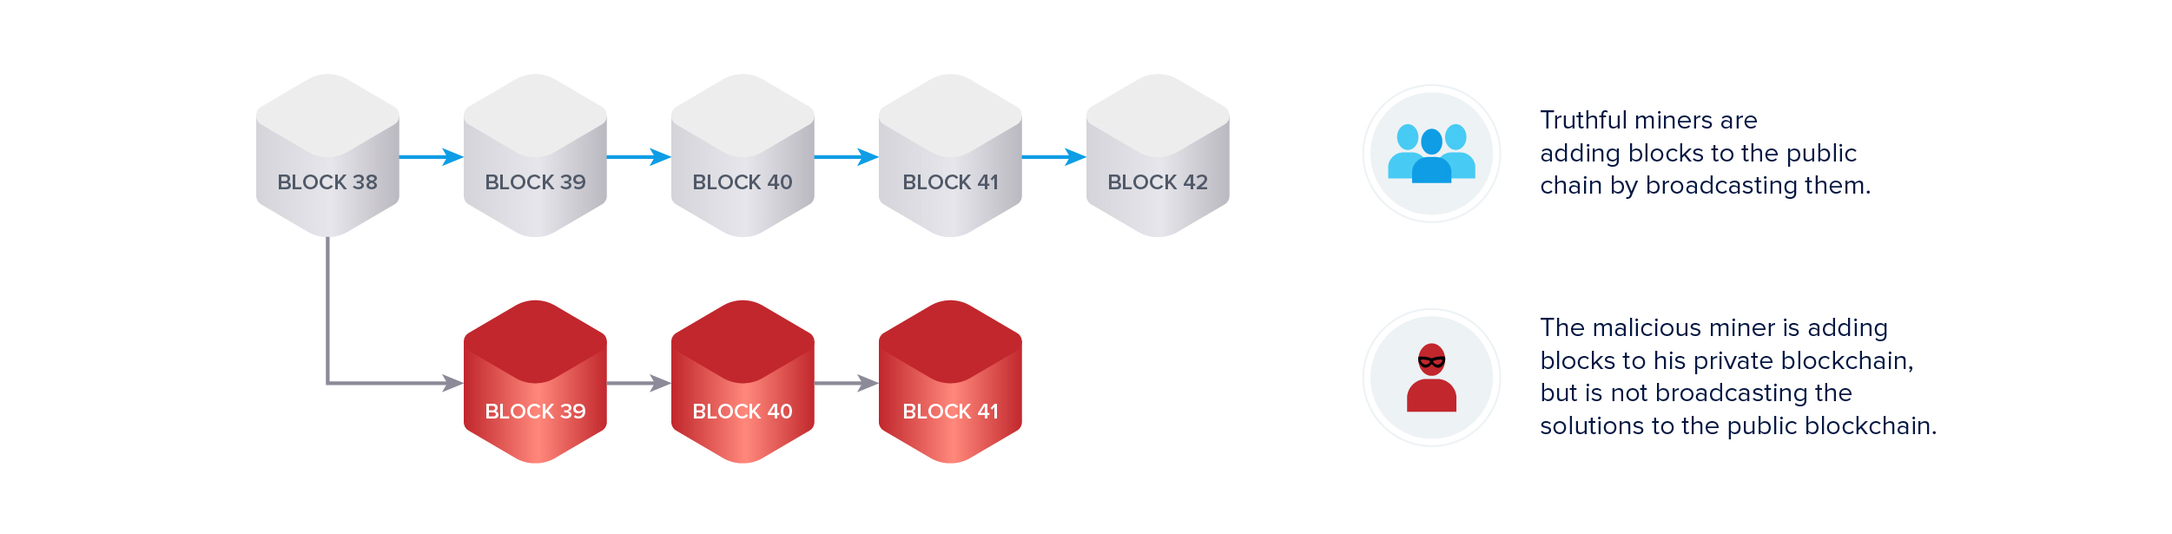
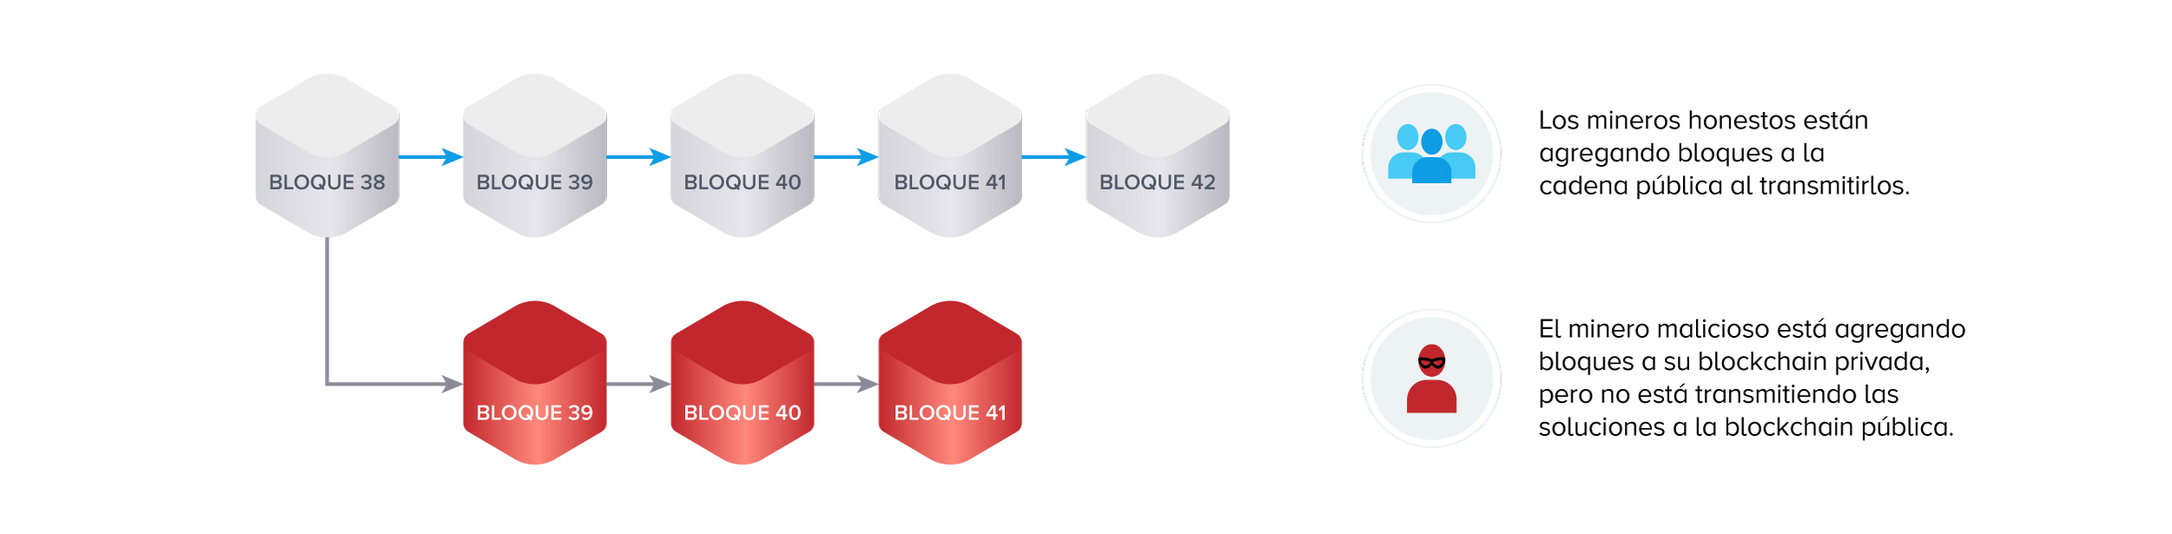
Update translation

diff --git a/_layouts/post.html b/_layouts/post.html
@@ -2,7 +2,7 @@
 layout: default
 ---
 
-<div class="post-section js-PostContent" data-topic="{{page.topic}}" data-level="{{ page.level | default: '' }}" data-url="{{page.url}}">
+<div class="post-section js-PostContent" data-topic="{{page.topic}}" data-level="{{ page.level | default: '' }}" data-url="{% if site.default_lang != site.lang %}/{{ site.lang }}{% endif %}{{page.url}}">
 
     {% include search.html %}
 

diff --git a/_i18n/es/_posts/technology/advanced/2021-07-01-summary-tech-advanced.md b/_i18n/es/_posts/technology/advanced/2021-07-01-summary-tech-advanced.md
@@ -18,12 +18,12 @@ En nuestro primer capítulo abordamos la cadena de bloques desde tres perspectiv
 ![Blockchain broken](/assets/post_files/technology/advanced/blockchain-as-a-data-structure/ES_blockchain_broken_D.jpg)
 ![Blockchain broken](/assets/post_files/technology/advanced/blockchain-as-a-data-structure/ES_blockchain_broken_M.jpg)
 
-Segundo, nos acercamos a la cadena como un [protocolo para transferir valor]({{ site.baseurl }}{% post_url /es/technology/advanced/2021-01-03-a-protocol-to-transfer-value %}). Hay muchos protocolos de red diferentes que permiten a los dispositivos comunicarse de manera estandarizada. Sin estos estándares, les sería difícil a los desarrolladores e ingenieros desarrollar software y hardware interoperable. La cadena de bloques es un nuevo tipo de protocolo que estandariza la manera en la que sus usuarios pueden intercambiar valor por internet sin tener que involucrar a ningún intermediario como un banco o proveedor de servicios de pago com PayPal.
+Segundo, nos acercamos a la cadena como un [protocolo para transferir valor]({{ site.baseurl }}{% post_url /es/technology/advanced/2021-01-03-a-protocol-to-transfer-value %}). Hay muchos protocolos de red diferentes que permiten a los dispositivos comunicarse de manera estandarizada. Sin estos estándares, les sería difícil a los desarrolladores e ingenieros desarrollar software y hardware interoperable. La cadena de bloques es un nuevo tipo de protocolo que estandariza la manera en la que sus usuarios pueden intercambiar valor por internet sin tener que involucrar a ningún intermediario como un banco o proveedor de servicios de pago como PayPal.
 
 ![Protocols](/assets/post_files/technology/advanced/a-protocol-to-transfer-value/ES_protocols_D.jpg)
 ![Protocols](/assets/post_files/technology/advanced/a-protocol-to-transfer-value/ES_protocols_M.jpg)
 
-Por último, introdujimos el concepto de los [contratos inteligentes]({{ site.baseurl }}{% post_url /es/technology/advanced/2021-01-04-guaranteed-execution-with-smart-contracts %}). Smart Contracts are programs stored and running on the blockchain. They ensure objective execution on the basis of mutually agreed upon terms enforced by code. They have the potential to reduce middleman which in turn reduces costs and saves time. Before we can see widespread adoption we have to overcome some hurdles, like solving the Oracle Problem that describes the challenge of reliably submitting real-world data to the blockchain.
+Por último, introdujimos el concepto de los [contratos inteligentes]({{ site.baseurl }}{% post_url /es/technology/advanced/2021-01-04-guaranteed-execution-with-smart-contracts %}). Los contratos inteligentes son programas que se almacenan y ejecutan en la cadena de bloques. Estos programas aseguran la ejecución objetiva del contrato con base en términos acordados mutuamente y hechos valer por el código. Este tipo de contrato tiene el potencial de reducir el número de intermediarios, reduciendo costos y ahorrando tiempo. Sin embargo, antes de que pueda darse la adopción generalizada de estos contratos, deben superarse obstáculos como el problema del oráculo, el cual describe la dificultad de ingresar a la cadena de bloques un dato relacionado al mundo real de manera confiable.
 
 ![Oracle](/assets/post_files/technology/advanced/guaranteed-execution-with-smart-contracts/ES_oracle_D.jpg)
 ![Oracle](/assets/post_files/technology/advanced/guaranteed-execution-with-smart-contracts/ES_oracle_M.jpg)
@@ -47,7 +47,7 @@ El [mecanismo de consenso]({{ site.baseurl }}{% post_url /es/technology/advanced
 
 En el último artículo sobre el funcionamiento de las cadenas de bloque, discutimos el concepto de [minado]({{ site.baseurl }}{% post_url /es/technology/advanced/2021-02-07-mining %}) dentro de una cadena PoW. Los mineros protegen a la cadena de bloques contra cualquier ataque y al historial registrado de todo cambio. Agregar un bloque a la cadena de bloques requiere un gran número de intentos aleatorios para encontrar un nonce que produzca un hash de bloque válido. El hash del bloque debe satisfacer el nivel de dificultad actual de la red. Gracias a esto, resulta extremadamente complicado alterar los datos de la cadena de bloques. Si alguien deseara lograrlo, tendría que hacerlo por sí mismo, no solo repitiendo todo el trabajo ya hecho, pero también a un paso más rápido que todos los mineros honestos combinados.
 
-Los mineros se encuentran en una de competencia, y sus probabilidades de encontrar el próximo bloque depende del poder computacional que controlan. Un minero recibe monedas recién creadas como recompensa por su trabajo. El que una red distribuida puede pagar a sus participantes por su propio mantenimiento es una gran innovación introducida por Bitcoin.
+Los mineros se encuentran en una competencia, y sus probabilidades de encontrar el próximo bloque depende del poder computacional que controlan. Un minero recibe monedas recién creadas como recompensa por su trabajo. El que una red distribuida puede pagar a sus participantes por su propio mantenimiento es una gran innovación introducida por Bitcoin.
 
 ![Miner](/assets/post_files/technology/advanced/mining/ES_miner_D.jpg)
 ![Miner](/assets/post_files/technology/advanced/mining/ES_miner_M.jpg)
@@ -63,8 +63,8 @@ Le dedicamos el tercer capítulo a las [billeteras de criptomonedas y a los dife
 
 En el cuarto capítulo hablamos de transacciones. Dentro del primer artículo se introdujo el tema del [modelo UTXO]({{ site.baseurl }}{% post_url /es/technology/advanced/2021-04-02-the-utxo-model %}), el método de contabilidad empleado por la mayoría de las cadenas de bloques. La cadena de bloques no mantiene registros del saldo de cada dirección. Más bien, la billetera repasa el historial de transacciones de la cadena de bloques y recopila todas las transacciones entrantes que no se han gastado aún, los UTXO del usuario, y las suma para generar el saldo disponible, algo un tanto similar a la manera en la que funciona el efectivo. Si el usuario posee, por ejemplo, un UTXO de 10 ZEN pero solo quiere gastar 8 de ellos, la billetera usará el UTXO en una transacción con dos salidas: se enviarán 8 ZEN al destino indicado y 2 ZEN, el cambio del usuario, en una segunda salida.
 
-![wallet](/assets/post_files/technology/advanced/the-utxo-model/ES_wallet_balance_Int_D.jpg)
-![wallet](/assets/post_files/technology/advanced/the-utxo-model/ES_wallet_balance_Int_M.jpg)
+![wallet](/assets/post_files/technology/advanced/the-utxo-model/wallet_balance_Int_D.jpg)
+![wallet](/assets/post_files/technology/advanced/the-utxo-model/wallet_balance_Int_M.jpg)
 
 En el siguiente artículo sobre transacciones, hablamos sobre el [explorador de bloques]({{ site.baseurl }}{% post_url /es/technology/advanced/2021-04-03-block-explorer-continued %}), una herramienta gráfica que permite al usuario visualizar y explorar los datos de la cadena de bloques. Hay un explorador disponible para casi todas las cadenas de bloques públicas existentes. Esta herramienta permite también explorar el historial de una cadena con todas las transacciones que contiene, así como todas las direcciones empleadas y el total de bloques minados. Aclaramos también los datos que el explorador hace disponibles y nos remontamos a la primera transacción criptomonetaria, la cual ocurrió entre Satoshi Nakamoto y Hal Finney.
 
@@ -77,9 +77,9 @@ Nos adentramos además a un tipo muy especial de transacción, el [intercambio a
 
 ### Privacidad en la cadena de bloques
 
-El derecho humano a la privacidad es uno de los valores centrales de Horizen. En este capítulo, analizamos diferentes métodos de conservar la [privacidad en la cadena de bloques]({{ site.baseurl }}{% post_url /es/technology/advanced/2021-05-01-intro-to-privacy-on-the-blockchain %}). Empezamos por métodos sencillos como la utilización de una dirección diferente por transacción y protocolos de mezclado de monedas que combinan un grupo transacciones de fuentes diferentes para ofuscar la relación entre remitente y receptor. Una técnica más avanzada para garantizar la privacidad de una transacción es la utilización de una firma anular. Con las firmas anulares, un grupo de gente firma la transacción, el observador podrá estar seguro de que la transacción fue firmada por alguien del grupo, pero no sabrá quién.
+El derecho humano a la privacidad es uno de los valores centrales de Horizen. En este capítulo, analizamos diferentes métodos de conservar la [privacidad en la cadena de bloques]({{ site.baseurl }}{% post_url /es/technology/advanced/2021-05-01-intro-to-privacy-on-the-blockchain %}). Empezamos por métodos sencillos como la utilización de una dirección diferente por transacción y protocolos de mezclado de monedas que combinan un grupo de transacciones de fuentes diferentes para ofuscar la relación entre remitente y receptor. Una técnica más avanzada para garantizar la privacidad de una transacción es la utilización de una firma anular. Con las firmas anulares, un grupo de gente firma la transacción, el observador podrá estar seguro de que la transacción fue firmada por alguien del grupo, pero no sabrá quién.
 
-La última tecnología para conservar privacidad que discutimos fueron las pruebas de cero conocimiento, en especial los zkSNARK, la tecnología que Horizen utiliza para sus transacciones protegidas. Una prueba de cero conocimiento le permite al usuario comprobarle al verificador que tiene conocimiento de algo sin revelar dicho conocimiento. Empleamos como ejemplo a una persona vidente que intenta convencer a una con los ojos vendados que había bolas de dos colores diferentes, pero sin revelar los colores.
+La última tecnología para conservar privacidad que discutimos fueron las pruebas de cero conocimiento, en especial los zkSNARK, la tecnología que Horizen utiliza para sus transacciones privadas. Una prueba de cero conocimiento le permite al usuario comprobarle al verificador que tiene conocimiento de algo sin revelar dicho conocimiento. Empleamos como ejemplo a una persona vidente que intenta convencer a una con los ojos vendados que había bolas de dos colores diferentes, pero sin revelar los colores.
 
 ![Zero-Knowledge Proofs](/assets/post_files/technology/advanced/privacy-on-the-blockchain/ES_zkproof_D.jpg)
 ![Zero-Knowledge Proofs](/assets/post_files/technology/advanced/privacy-on-the-blockchain/ES_zkproof_M.jpg)

diff --git a/_i18n/es/_posts/technology/advanced/2021-02-06-consensus-mechanisms.md b/_i18n/es/_posts/technology/advanced/2021-02-06-consensus-mechanisms.md
@@ -16,7 +16,11 @@ Cuando el participante de una red crea una transacción, la transacción se prop
 
 Hay muchas maneras de lograr consenso en una red distribuida, pero las dos más utilizadas son los algoritmos de prueba de trabajo y prueba de participación. Tomemos esta generalización formulada por Demiro Massessi:
 
-_"The main difference between consensus mechanisms is the way in which they delegate and reward the verification of transactions. (...) In one way or another, blockchain consensus algorithms boil down to some kind of vote where the number of votes that a user has is tied to the amount of a limited resource that is under the user’s control."_
+**Inglés**
+
+_"The main difference between consensus mechanisms is the way in which they delegate and reward the verification of Transacciones. (...) In one way or another, blockchain consensus algorithms boil down to some kind of vote where the number of votes that a user has is tied to the amount of a limited resource that is under the user’s control."_
+
+**Español**
 
 _"La principal diferencia entre mecanismos de consenso es la manera en la que delegan y recompensan la verificación de transacciones. […] De una manera u otra, los algoritmos de consenso de la cadena de bloques se reducen a algún tipo de votación donde el número de votos que tiene cada usuario está atado a la cantidad de algún recurso limitado controlado por el usuario."_
 
@@ -41,11 +45,15 @@ Todos los nodos y mineros verifican la validez de un bloque nuevo en cuanto se d
 
 **La regla de la cadena más larga**
 
-Now you can imagine a scenario in which two miners find a block at the same time. In this case, all the nodes and miners on the network save both versions of the block. This is a tie situation: both blocks are valid at this point, but somehow they must break the tie. We need a single version of the truth. The miners will start building on top of the block they received first. The tie is broken when the miners find the next block. The block of the two competing versions that is built on top of will become accepted as the single truth by all miners and nodes. The block that is disregarded is called an _orphan block_. This procedure of breaking a tie between to concurring blocks is called the Longest Chain Rule or Nakamoto Consensus.
+Imaginemos una situación en la que dos mineros encuentran un bloque al mismo tiempo. En este caso, todos los nodos y mineros de la red almacenan ambas versiones del bloque. A esta situación se le llama empate, pues ambos bloques son válidos al momento de ser creados. Sin embargo, el empate debe romperse de alguna manera, pues es necesaria una sola versión de la verdad. Los mineros empiezan a construir sobre el bloque que reciben primero. El empate se rompe cuando un minero encuentra el siguiente bloque. Uno de los dos bloques será aceptado como el único verdadero por todos los mineros y nodos, mientras que el otro se hará de lado; estos bloques sin cadena se denominan bloques huérfanos. A este tipo de procedimiento para romper empates entre bloques coincidentes se le llama regla de la cadena más larga (longest chain rule) o consenso de Nakamoto.
 
-If 80% of miners receive block A first and the other 20% block B, then the chances of block A getting extended are 80% (assuming all miners have the same computational power). In a way, the miners vote with their computational power on one version of the history. This aligns perfectly with our quote from the beginning of the article:
+Si el 80% de los mineros recibieron primero el bloque A y el otro 20% el bloque B, las probabilidades de que la cadena se extienda partiendo del bloque A son del 80% (suponiendo que todos los mineros poseen el mismo poder computacional). De cierta manera, los mineros votan con su poder computacional por una sola versión del historial, replicando así la realidad descrita en nuestra cita inicial:
+
+**Inglés**
 
  _"In one way or another, blockchain consensus algorithms boil down to some kind of vote where the number of votes that a user has is tied to the amount of a limited resource that is under the user’s control."_
+
+**Español**
 
  _“De una manera u otra, los algoritmos de consenso de la cadena de bloques se reducen a algún tipo de votación donde el número de votos que tiene cada usuario está atado a la cantidad de algún recurso limitado controlado por el usuario.”_
 
@@ -75,7 +83,7 @@ Los escépticos cuestionan la seguridad del modelo de consenso PoS porque no se 
 
 Otra diferencia entre las cadenas PoW y PoS es que en la segunda cada nodo validador debe ser identificable, pues sus monedas en participación deben utilizarse para compensar por actos maliciosos. En una cadena PoW no es necesario tener mineros o nodos identificables. Al contrario, una de sus características es que cuando un nodo recibe un bloque, no se incluye información sobre quién lo minó. Puede haber sido el mismo nodo el que haya transmitido el bloque, o puede que este se haya relevado varias veces antes de alcanzar al usuario; no importa ni debe importar la identidad del minero. Lo único importante es que la solución al acertijo y todas las transacciones en el bloque sean válidas. En el caso de las pruebas de trabajo, solo es necesario confiar en las matemáticas.
 
-Quienes apoyan las cadenas PoS se remiten al alto costo y rendimiento limitado de las cadenas PoW, y consideran por lo tanto el mecanismo PoS como el má sustentable. Por el momento, no hay disponible ninguna cadena de bloques PoS que pueda cumplir con sus promesas de seguridad durante un tiempo extendido. En cambio, existe el precedente de Bitcoin, cuya cadena PoW se ha ejecutado durante más de diez años sin ninguna violación de seguridad significativa. Será el tiempo el que decida si las cadenas PoS pueden cumplir con la promesa de ser igual de seguras pero más escalables que una cadena PoW.
+Quienes apoyan las cadenas PoS se remiten al alto costo y rendimiento limitado de las cadenas PoW, y consideran por lo tanto el mecanismo PoS como el más sustentable. Por el momento, no hay disponible ninguna cadena de bloques PoS que pueda cumplir con sus promesas de seguridad durante un tiempo extendido. En cambio, existe el precedente de Bitcoin, cuya cadena PoW se ha ejecutado durante más de diez años sin ninguna violación de seguridad significativa. Será el tiempo el que decida si las cadenas PoS pueden cumplir con la promesa de ser igual de seguras pero más escalables que una cadena PoW.
 
 Retomaremos esta discusión en la conclusión de nuestro artículo sobre el minado de criptomonedas. Los argumentos respectivos de las comunidades PoS y PoW tendrán mayor sentido una vez que quede claro de qué trata el proceso de minado.
 

diff --git a/_i18n/es/_posts/technology/advanced/2021-01-04-guaranteed-execution-with-smart-contracts.md b/_i18n/es/_posts/technology/advanced/2021-01-04-guaranteed-execution-with-smart-contracts.md
@@ -31,7 +31,7 @@ Otro posible uso de los contratos inteligentes sería el de una especie de eBay 
 
 ### dApps
 
-Una aplicación descentralizada (dApp) es un argumento más sofisticado a favor de los contratos inteligentes. La mayoría las apps y sitios webs utilizan API (application programming interfaces) para comunicarse con su base de datos subyacente. Un API bien escrito le hace más a un desarrollador ofrecer un servicio al definir la comunicación entre los componentes de un sistema, como el sistema operativo, base de datos o biblioteca de software.
+Una aplicación descentralizada (dApp) es un argumento más sofisticado a favor de los contratos inteligentes. La mayoría las apps y sitios webs utilizan API (application programming interfaces) para comunicarse con su base de datos subyacente. Un API bien escrito le hace más fácil a un desarrollador ofrecer un servicio al definir la comunicación entre los componentes de un sistema, como el sistema operativo, base de datos o biblioteca de software.
 
 Las dApps hacen uso de contratos inteligentes para comunicarse con su cadena de bloques. En un futuro, podrían surgir receptáculos de plantillas de contratos inteligentes para diversos fines. Este futuro ya está empezando a materializarse gracias a plataformas de contratos inteligentes como Ethereum.
 
@@ -46,7 +46,7 @@ Se encuentran también los pocos que saben que Bitcoin permite también la creac
 
 En el caso de los contratos inteligentes, la seguridad implica considerar todas las maneras en las que el contrato podría ejecutarse, así como asegurarse de cubrir todas las posibles consecuencias. Los contratos seguros de Bitcoin escritos en Script permiten menor complejidad a comparación de los escritos en Solidity para Ethereum; esto limita los casos en los que pueden utilizarse, pero hace más fácil enumerar, examinar y rendir cuentas, resultando en contratos más fáciles de asegurar.
 
-Vale la pena mencionar que las plantillas de contratos inteligentes más usados en Ethereum, en especial en el estándar ERC20 y ERC721 no requieren ser sistemas Turing completos. Casi todos los tokens creados en la cadena de bloques de Ethereum emplean uno de estos dos estándares, pues son más fáciles de integrar con distintas billeteras y centros cambiarios.
+Vale la pena mencionar que las plantillas de contratos inteligentes más usados en Ethereum, en especial los estándares ERC20 y ERC721 no requieren ser sistemas Turing completos. Casi todos los tokens creados en la cadena de bloques de Ethereum emplean uno de estos dos estándares, pues son más fáciles de integrar con distintas billeteras y centros cambiarios.
 
 ### ¿En serio es un sistema libre de intermediarios?
 
@@ -79,8 +79,8 @@ En palabras de Jimmy Song, “Un contrato inteligente que confía en un tercero 
 
 ### Resumen
 
-Habiendo completado esta lección, ya debe tener una buena idea de la naturaleza de una cadena de bloques, pues la hemos como estructura de datos y como un conjunto de reglas. La cadena puede almacenar información confiablemente dada la naturaleza distribuida del libro contable. Todos pueden participar en la red sin permiso o registro alguno mientras se apeguen a las reglas del protocolo. Así, se logra que las cadenas de bloques sean resistentes a la censura, sin permisos, libres de intermediarios y, sobre todo, muy valiosas. Una blockchain puede no solo almacenar pedazos de información sino también programas ejecutados de manera distribuida.
+Habiendo completado esta lección, ya debe tener una buena idea de la naturaleza de una cadena de bloques, pues la hemos analizado como estructura de datos y como un conjunto de reglas. La cadena puede almacenar información confiablemente dada la naturaleza distribuida del libro contable. Todos pueden participar en la red sin permiso o registro alguno mientras se apeguen a las reglas del protocolo. Así, se logra que las cadenas de bloques sean resistentes a la censura, sin permisos, libres de intermediarios y, sobre todo, muy valiosas. Una blockchain puede no solo almacenar pedazos de información sino también programas ejecutados de manera distribuida.
 
-Los contactos inteligentes pueden asegurar ejecución objetiva de un contrato a partir de términos previamente acordados y hechos valer por el código mismo. Poseen el potencial de eliminar intermediarios y así disminuir costos y pérdidas de tiempo. Asimismo, es probable que incentiven una relación más estrecha entre desarrolladores de software y el sistema judicial. Habrá que superar varios obstáculos para que la tecnología se adopte de manera general, si embargo. Los reguladores tendrán que crear un marco que permita la implementación de contratos inteligentes con validez y tendrán que desarrollarse oráculos descentralizados.
+Los contactos inteligentes pueden asegurar la ejecución objetiva de un contrato a partir de términos previamente acordados y hechos valer por el código mismo. Poseen el potencial de eliminar intermediarios y así disminuir costos y pérdidas de tiempo. Asimismo, es probable que incentiven una relación más estrecha entre desarrolladores de software y el sistema judicial. Habrá que superar varios obstáculos para que la tecnología se adopte de manera general, si embargo. Los reguladores tendrán que crear un marco que permita la implementación de contratos inteligentes con validez y tendrán que desarrollarse oráculos descentralizados.
 
 Este fue el último artículo en nuestro capítulo sobre la cadena de bloques y sus capacidades. En el siguiente capítulo, veremos a fondo cómo es que funcionan.

diff --git a/_i18n/es/_posts/technology/advanced/2021-04-03-block-explorer-continued.md b/_i18n/es/_posts/technology/advanced/2021-04-03-block-explorer-continued.md
@@ -1,7 +1,7 @@
 ---
 layout: post
 type: article
-title: "Block Explorer Continued"
+title: "El explorador de bloques"
 description: "El explorador de bloques es una herramienta que permite al usuario navegar la información contenida en la cadena. Este artículo habla del tipo de información que encontrará el usuario."
 permalink: /technology/advanced/block-explorer-continued/
 topic: technology
@@ -27,7 +27,7 @@ El usuario verá un resumen de los bloques más recientes en la página de inici
 
  - **Altura (Height)**: La altura es el número asociado al bloque. El primer bloque creado tiene por número “#0”, le siguió el “#1” y luego el “#2”. Como puede verse en la tabla, al momento de redactarse este artículo se habían minado ya muchos bloques.
  - **Edad (Age)**: Es la edad del bloque. Aunque esta característica se explica sola, hay algo de información interesante entrelíneas; como usted ya sabrá, el tiempo de bloque, el intervalo entre el minado de dos bloques, es de 10 minutos en el caso de Bitcoin. ¿Por qué tomó entonces solo 6 minutos minar el bloque 539.772 y 9 minar el 539.771? Esto se debe a que el tiempo de bloque es un promedio. Siempre habrá bloques más lentos de crear y otros pocos que se producirán con mayor rapidez, pero en promedio el proceso tomará 10 minutos. En nuestro artículo sobre minado explicamos cómo se autoajusta el tiempo de bloque.
- - **Transacciones (Transactions)**: El número de transacciones incluidas en el bloque. Esto quiere decir que en los 6 minutos que tomó minar el bloque 539.772 se realizaron 1500 transacciones.
+ - **Transacciones (Transacciones)**: El número de transacciones incluidas en el bloque. Esto quiere decir que en los 6 minutos que tomó minar el bloque 539.772 se realizaron 1500 transacciones.
  - **Total enviado (Total Sent)**: Las 1547 transacciones que sucedieron suman un envío de casi 4700 bitcoins.
  - **Transmitido por (Relayed By)**: El minero (o colectivo de mineros) que resolvió el bloque y obtuvo la recompensa de bloque.
  - **Tamaño (Size)**: La cantidad de almacenamiento que ocupa un bloque determinado.
@@ -53,7 +53,7 @@ Como ya hemos discutido la altura del bloque, pasaremos a hablar de la marca de 
 
 El campo de “Transmitido por” contiene información sobre el minero del bloque. Los grupos de minería de la actualidad, así como sus direcciones de recompensa, suelen ser de conocimiento público. De esta manera, el explorador de bloques sabe quién minó el bloque; compara las direcciones que recibieron las monedas recién generadas (1A1zP1…) en la transacción coinbase con los números de las direcciones de grupos de minería conocidos. En este caso, conocemos la identidad del minero aunque el explorador del bloque no nos la proporciona; el mismo Satoshi Nakamoto.
 
-Hablamos de _dificultad_ a más detalle en nuestro [artículo sobre minería]({{ site.baseurl }}{% post_url /technology/advanced/2021-02-07-mining %}). La dificultad describe qué tan difícil es el acertijo que deben resolver los mineros, y se refiere al número de ceros iniciales en el hash del bloque. Como podemos apreciar a la derecha, el hash del bloque génesis tenía diez ceros iniciales. Hoy en día (al momento de redactar el artículo) un bloque como el 539.772 exige por lo menos 18 ceros iniciales. Entre mayor el número de ceros, mayor la dificultad del acertijo.
+Hablamos de _dificultad_ a más detalle en nuestro [artículo sobre minería]({{ site.baseurl }}{% post_url /technology/advanced/2021-02-07-mining %}). La dificultad describe qué tan difícil es el acertijo que deben resolver los mineros, y se refiere al número de ceros iniciales en el hash del bloque. Como podemos apreciar a la derecha, el hash del bloque génesis tenía diez ceros iniciales. Hoy en día (al momento de redactar el artículo) un bloque como el 539772 exige por lo menos 18 ceros iniciales. Entre mayor el número de ceros, mayor la dificultad del acertijo.
 
 Los bits, el tamaño y el peso se refieren al tamaño de los datos de un bloque determinado, nada espectacular. La versión se refiere al software que se ejecutó en el momento en que se creó el bloque.
 
@@ -66,7 +66,7 @@ La función más común del explorador de bloques es la de revisar el estatus de
 Si queremos visitar la primera transacción de criptomonedas de la historia tenemos que remitirnos al bloque #170, donde se incluyó la primera transacción de bitcoins entre Satoshi Nakamoto y Hal Finney.
 
 <div class="my-4">
-    <img src="/assets/post_files/technology/advanced/block-explorer-continued/transactions.png" alt="Bitcoin Transaction">
+    <img src="/assets/post_files/technology/advanced/block-explorer-continued/Transacciones.png" alt="Bitcoin Transaction">
 </div>
 
 Este bloque es el primero en la cadena de bloques de Bitcoin que contiene más de una transacción. La transacción coinbase aparece arriba, como es de esperarse, y debajo de esta se registra la primera transacción; una persona enviándole monedas a otra.

diff --git a/_i18n/es/_posts/horizen/advanced/2027-01-03-sidechains.md b/_i18n/es/_posts/horizen/advanced/2027-01-03-sidechains.md
@@ -8,7 +8,7 @@ topic: horizen
 level: advanced
 ---
 
-Una cadena lateral es una cadena de bloques con la función adicional de ser interoperable con la cadena de bloques principal. Las transacciones son la interacción más común en una cadena de bloques que aloja una criptomoneda, como es el caso de la cadena de Horizen. El equipo técnico de Horizen, dirigido por Alberto Garoffolo, ha propuesta la construcción de una cadena lateral con base en principios PoS (de prueba de participación).
+Una cadena lateral es una cadena de bloques con la función adicional de ser interoperable con la cadena de bloques principal. Las transacciones son la interacción más común en una cadena de bloques que aloja una criptomoneda, como es el caso de la cadena de Horizen. El equipo técnico de Horizen, dirigido por Alberto Garoffolo, ha propuesto la construcción de una cadena lateral con base en principios PoS (de prueba de participación).
 
 La principal innovación es un nuevo protocolo de transferencia hacia atrás que permite transacciones entre una de muchas posibles cadenas laterales posibles con la cadena principal sin necesidad de que la cadena principal tenga que rastrear a la lateral y sin introducir una federación centralizada de validadores. Aunque se proporcionará una implementación de referencias de un protocolo de consenso de cadena lateral, será posible una amplia gama de protocolos de consenso.
 
@@ -55,7 +55,7 @@ El proyecto de cadenas de bloques de Horizen se ha puesto objetivos muy ambicios
 
 Es fácil ver los beneficios de desarrollar primero una cadena lateral, pues algunas de estas funciones requerían hacerle modificaciones significativas al cliente central de implementarse al código base existente. Desarrollar nuevas características y hacer cambios al protocolo, aunque sean mínimos, resulta problemático no solo por la dificultad de lograr consenso, sino también porque implica riesgos de seguridad. Por lo tanto, cada adición debe considerarse cuidadosamente.
 
-La idea de Horizen es desarrollar de una sola vez una implementación de cadenas laterales robustas para luego simplificar el desarrollo de nuevas características que expandan el ecosistema Horizen. La implementación de cadenas laterales de desemparejará por completo de la cadena principal y podría, por ejemplo, ejecutar un algoritmo de consenso completamente diferente al de esta. De esta manera, sería posible tener cadenas laterales para la tesorería y sistema de rastreo de nodos con un protocolo de consenso [PoS]({{ site.baseurl }}{% post_url /technology/advanced/2021-02-06-consensus-mechanisms %}) y conservar a la par la cadena principal [PoW]({{ site.baseurl }}{% post_url /technology/advanced/2021-02-06-consensus-mechanisms %}).
+La idea de Horizen es desarrollar de una sola vez una implementación de cadenas laterales robustas para luego simplificar el desarrollo de nuevas características que expandan el ecosistema Horizen. La implementación de cadenas laterales se desemparejará por completo de la cadena principal y podría, por ejemplo, ejecutar un algoritmo de consenso completamente diferente al de esta. De esta manera, sería posible tener cadenas laterales para la tesorería y sistema de rastreo de nodos con un protocolo de consenso [PoS]({{ site.baseurl }}{% post_url /technology/advanced/2021-02-06-consensus-mechanisms %}) y conservar a la par la cadena principal [PoW]({{ site.baseurl }}{% post_url /technology/advanced/2021-02-06-consensus-mechanisms %}).
 
 ### Cómo funciona
 
@@ -64,7 +64,7 @@ El desarrollo del modelo de cadenas laterales (sidechains) consiste de dos parte
  1. EL _protocolo de consenso de la cadena lateral (sidechain consensus protocol)_ — SCP
  2. El _protocolo de transferencia entre cadenas_ o peg de doble sentido (two-way peg) — CCT
 
-El _protocolo de consenso de la cadena lateral_ gobierna cómo se pone de acuerdo la red respecto a la creación de bloques nuevos y el historial de transacciones. El CTT determina cómo pueden enviarse activos de la cadena principal a la lateral y viceversa. Hablaremos de ambos protocolos a detalle en nuestro [artículo sobre cadenas laterales]({{ site.baseurl }}{% post_url /horizen/expert/2028-01-03-sidechains %}) del nivel experto..
+El _protocolo de consenso de la cadena lateral_ gobierna cómo se pone de acuerdo la red respecto a la creación de bloques nuevos y el historial de transacciones. El CTT determina cómo pueden enviarse activos de la cadena principal a la lateral y viceversa. Hablaremos de ambos protocolos a detalle en nuestro [artículo sobre cadenas laterales]({{ site.baseurl }}{% post_url /horizen/expert/2028-01-03-sidechains %}) del nivel experto.
 
 ![SCP_CCT](/assets/post_files/horizen/advanced/sidechains/ES_SCP_CCT_D.jpg)
 ![SCP_CCT](/assets/post_files/horizen/advanced/sidechains/ES_SCP_CCT_M.jpg)

diff --git a/_i18n/es/_posts/technology/advanced/2021-03-01-types-of-wallets.md b/_i18n/es/_posts/technology/advanced/2021-03-01-types-of-wallets.md
@@ -9,7 +9,7 @@ level: advanced
 chapter: "Billeteras"
 ---
 
-Una billetera es una programa que genera, administra y almacena un par de llaves criptográficas. El usuario puede revisar su saldo y recibir y enviar fondos desde su billetera; (si no le quedan claras las funciones principales de la billetera, lo invitamos a leer nuestro artículo de nivel principiante sobre el tema). En resumen, sin embargo, la principal diferencia entre los distintos tipos de billetera es la ubicación física en la que se almacenan las llaves del usuario.
+Una billetera es una programa que genera, administra y almacena un par de llaves criptográficas. El usuario puede revisar su saldo, recibir y enviar fondos desde su billetera; (si no le quedan claras las funciones principales de la billetera, lo invitamos a leer nuestro artículo de nivel principiante sobre el tema). En resumen, sin embargo, la principal diferencia entre los distintos tipos de billetera es la ubicación física en la que se almacenan las llaves del usuario.
 
 ![Wallet](/assets/post_files/technology/advanced/types-of-wallets/wallet2_D.jpg)
 ![Wallet](/assets/post_files/technology/advanced/types-of-wallets/wallet2_M.jpg)
@@ -30,7 +30,7 @@ Esto nos lleva a una distinción entre billeteras web hosteadas y no hosteadas. 
 ![Hosted Web Wallets](/assets/post_files/technology/advanced/types-of-wallets/ES_hosted_webwallet_D.jpg)
 ![Hosted Web Wallets](/assets/post_files/technology/advanced/types-of-wallets/ES_hosted_webwallet_M.jpg)
 
-Una ventaja de una billetera web hosteada es que le da al usuario la opción de recuperar su contraseña si la olvida. En cualquier otro caso, la pérdida de la una llave privada (junto con su frase mnemónica) resulta en la pérdida de todos los fondos del usuario.
+Una ventaja de una billetera web hosteada es que le da al usuario la opción de recuperar su contraseña si la olvida. En cualquier otro caso, la pérdida de la llave privada (junto con su frase mnemónica) resulta en la pérdida de todos los fondos del usuario.
 
 Esta característica puede darle tranquilidad al usuario, pero las billeteras hosteadas (también llamadas hot wallets o cloud wallets) también tienen desventajas. Es importante recordar que si el usuario no controla sus llaves, no controla sus fondos. Involucrar a un tercero siempre tiene sus riesgos, sin importar qué tan confiable pueda considerarse. Primeramente, son un objetivo más atractivo para los hackers que un individuo, pues el botín que ofrecen es mucho mayor. Segundo, en el caso improbable de un cambio regulatorio, podría resultarle imposible al usuario retirar sus fondos; una situación poco común, pero no imposible. Tercero, nunca puede descartarse la posibilidad de que la entidad en cuestión quiebre o, peor aún, hurte los fondos de sus usuarios. En el caso de los centros cambiarios que ya mencionamos, no es probable que esto suceda, pero el riesgo permanece.
 
@@ -94,7 +94,7 @@ Pasemos a las consentidas de todos, las billeteras hardware. En una billetera ha
 
 Ahora lo interesante, ¿cómo funciona una billetera de este tipo?
 
-La interfaz de la billetera genera una dirección a partir de la llave pública del usuario cuando este quiere recibir fondos. Utilizar esta función es fácil. Si el usuario le da clic al botón de “Recibir” la interfaz responde arrojando la dirección que se debe compartir con el remitente. Si el usuario desde enviar fondos, la aplicación crea una transacción formal que debe firmarse. La transacción sin firmar se envía a la billetera de hardware, donde la llave privada almacenada en el dispositivo la firma. La firma regresa a la computadora, donde la transacción completa, incluyendo la firma, se propaga a la red.
+La interfaz de la billetera genera una dirección a partir de la llave pública del usuario cuando este quiere recibir fondos. Utilizar esta función es fácil. Si el usuario le da clic al botón de “Recibir” la interfaz responde arrojando la dirección que se debe compartir con el remitente. Si el usuario desea enviar fondos, la aplicación crea una transacción formal que debe firmarse. La transacción sin firmar se envía a la billetera de hardware, donde la llave privada almacenada en el dispositivo la firma. La firma regresa a la computadora, donde la transacción completa, incluyendo la firma, se propaga a la red.
 
 ![signing hardware wallet](/assets/post_files/technology/advanced/types-of-wallets/ES_signing_hardware_wallet_D.jpg)
 ![signing hardware wallet](/assets/post_files/technology/advanced/types-of-wallets/ES_signing_hardware_wallet_M.jpg)

diff --git a/_i18n/es/_posts/technology/advanced/2021-01-03-a-protocol-to-transfer-value.md b/_i18n/es/_posts/technology/advanced/2021-01-03-a-protocol-to-transfer-value.md
@@ -14,7 +14,7 @@ Es momento de abordar la cadena de bloques desde otra perspectiva, una que consi
 
 > “[The] Bitcoin protocol and network today [a] value transfer network. Beyond that, it is a core, backbone security service securing contracts, physical and digital property, equities, bonds, robot AI and an enormous wave of applications which have not yet been conceived." - Jeff Garzik, Bitcoin Core Developer
 
-> “El protocolo Bitcoin y su red son hoy en día una red para transferir valor. Más allá, es un importante servicio de seguridad que es la columna de la aseguración de contratos, propiedad física y digital, patrimonio, bonos, inteligencia artificial y una número enorme de aplicaciones que no se han concebido aún." - Jeff Garzik, Desarrollador de Bitcoin Core
+> “El protocolo Bitcoin y su red son hoy en día una red para transferir valor. Más allá, es un importante servicio de seguridad que es la columna de la aseguración de contratos, propiedad física y digital, patrimonio, bonos, inteligencia artificial y un número enorme de aplicaciones que no se han concebido aún." - Jeff Garzik, Desarrollador de Bitcoin Core
 
 El protocolo es un grupo de reglas que gobierna la validad de las transacciones y el funcionamiento general de la cadena de bloques. La [definición de Technopedia](https://www.techopedia.com/definition/12938/network-protocols) de un protocolo de red es la siguiente:
 
@@ -22,7 +22,7 @@ El protocolo es un grupo de reglas que gobierna la validad de las transacciones 
 
 > "Los protocolos de red son estándares y políticas formales compuestos de reglas, procedimientos y formatos que definen la comunicación entre dos o más dispositivos dentro de una red. Los protocolos de red rigen de principio a fin los procesos que permiten la comunicación oportuna, segura y administrada de datos o comunicaciones entre redes."
 
-La creación de la cadena de bloques define este conjunto de reglas, procedimientos y formato. La única manera de alterar las reglas es si una mayoría de los participantes de la red decide hacerlo. Las cadenas de bloques públicas hacen necesario lograr un consenso, lo a su vez requiere la cuidadosa consideración de cada cambio propuesto; una característica deseable que sirve para crear una fundación robusta para los usuarios.
+La creación de la cadena de bloques define este conjunto de reglas, procedimientos y formato. La única manera de alterar las reglas es si una mayoría de los participantes de la red decide hacerlo. Las cadenas de bloques públicas hacen necesario lograr un consenso, lo que a su vez requiere la cuidadosa consideración de cada cambio propuesto; una característica deseable que sirve para crear una fundación robusta para los usuarios.
 
 ### Protocolos de red
 
@@ -77,7 +77,7 @@ El protocolo de una cadena de bloques es un conjunto de reglas que aplica a todo
 
 Para concluir esta lección de la manera en que empezó, tomemos otra cita de Jeff Garzik.
 
-> "Do not try to stuff every feature into the Bitcoin protocol. Let it do what it does best. Build systems on top of Bitcoin which use its strengths.... Putting all the world’s coffee transactions, and all the world’s stock trades, and all the world’s Internet of Things device samplings, on the Bitcoin blockchain seems misguided" - Jeff Garzik
+> "Do not try to stuff every feature into the Bitcoin protocol. Let it do what it does best. Build systems on top of Bitcoin which use its strengths.... Putting all the world’s coffee Transacciones, and all the world’s stock trades, and all the world’s Internet of Things device samplings, on the Bitcoin blockchain seems misguided" - Jeff Garzik
 
 > "No hay por qué atiborrar el protocolo Bitcoin. Déjenlo hacer lo que mejor hace. Se deben construir sobre Bitcoin sistemas que aprovechen sus fortalezas....  Incluir en la blockchain de Bitcoin todas las compraventas de café, operaciones bursátiles del mundo y muestreos de todo el internet de las cosas es un esfuerzo equivocado." - Jeff Garzik
 

diff --git a/_i18n/es/_posts/technology/advanced/2021-04-02-the-utxo-model.md b/_i18n/es/_posts/technology/advanced/2021-04-02-the-utxo-model.md
@@ -58,7 +58,7 @@ Es posible observar que ambas TX se han gastado, un estatus indicado por la (S) 
 
 La mayoría de las cadenas de bloques emplean el modelo UTXO para llevar a cabo su contabilidad. Hay algunas excepciones, como Ethereum, el cual utiliza un modelo de cuentas. La salida de una transacción dirigida al usuario es lo que este utilizará como entrada para crear una transacción de salida.
 
-Cuando alguien pregunta qué es en realidad un ZEN o una bitcoin, resultaría adecuado responder que las monedas consisten de la salida de una transacción no gastada (o UTXO), la cual puede abrirse con la llave privada. No hay mayores abstracciones por encima de esto. Puede tomar un momento familiarizarse con esta manera de ver las cosas, pero es también un concepto claro y preciso. Esperamos que el ejemplo anterior lo haya ayudado a comprender la naturaleza de un modelo UTXO, pues esto hará mucho más fácil la comprensión de los siguientes artículos.
+Cuando alguien pregunta qué es en realidad un ZEN o un bitcoin, resultaría adecuado responder que las monedas consisten de la salida de una transacción no gastada (o UTXO), la cual puede abrirse con la llave privada. No hay mayores abstracciones por encima de esto. Puede tomar un momento familiarizarse con esta manera de ver las cosas, pero es también un concepto claro y preciso. Esperamos que el ejemplo anterior lo haya ayudado a comprender la naturaleza de un modelo UTXO, pues esto hará mucho más fácil la comprensión de los siguientes artículos.
 
 El siguiente artículo trata sobre el explorador de bloques, una herramienta que permite al usuario acceder a la información almacenada en la cadena de bloques al igual que un explorador le permite acceder a la información del internet (fue con un explorador de bloques que tomamos las capturas de pantalla que utilizamos como ejemplos).
 

diff --git a/_i18n/es/_posts/technology/advanced/2021-05-01-intro-to-privacy-on-the-blockchain.md b/_i18n/es/_posts/technology/advanced/2021-05-01-intro-to-privacy-on-the-blockchain.md
@@ -81,7 +81,7 @@ El objetivo de utilizar pruebas de cero conocimiento en transacciones criptomone
 
 Otro caso donde resulta perfecta la aplicación de pruebas de cero conocimiento es en la verificación de identidades; un usuario, por ejemplo, podría comprobarle a una entidad que tiene una edad determinada sin revelar datos personales como su fecha de nacimiento.
 
-Horizen hace uso de algo llamado zkSNARK para sus transacciones protegidas. Los zkSNARK, o argumentos de conocimiento sucintos no interactivos de cero conocimiento  (zero-knowledge succinct non-interactive arguments of knowledge) son una especie de prueba de cero conocimiento.
+Horizen hace uso de algo llamado zkSNARK para sus transacciones privadas. Los zkSNARK, o argumentos de conocimiento sucintos no interactivos de cero conocimiento  (zero-knowledge succinct non-interactive arguments of knowledge) son una especie de prueba de cero conocimiento.
 
  - Sucinto se refiere al hecho de que las pruebas son cortas (pueden calcularse y verificarse fácilmente).
  - No interactivos quiere decir que el probador y verificador no tienen que estar en línea al mismo tiempo. Con ejemplo de las bolas de color que utilizamos anteriormente, el probador y verificador deben realizar la prueba varias veces antes de que el verificador logre obtener una prueba de la declaración. En el caso de las pruebas no interactivas, el probador es capaz de construir la prueba por sí solo sin necesidad de comunicarse con el verificador durante el proceso.
